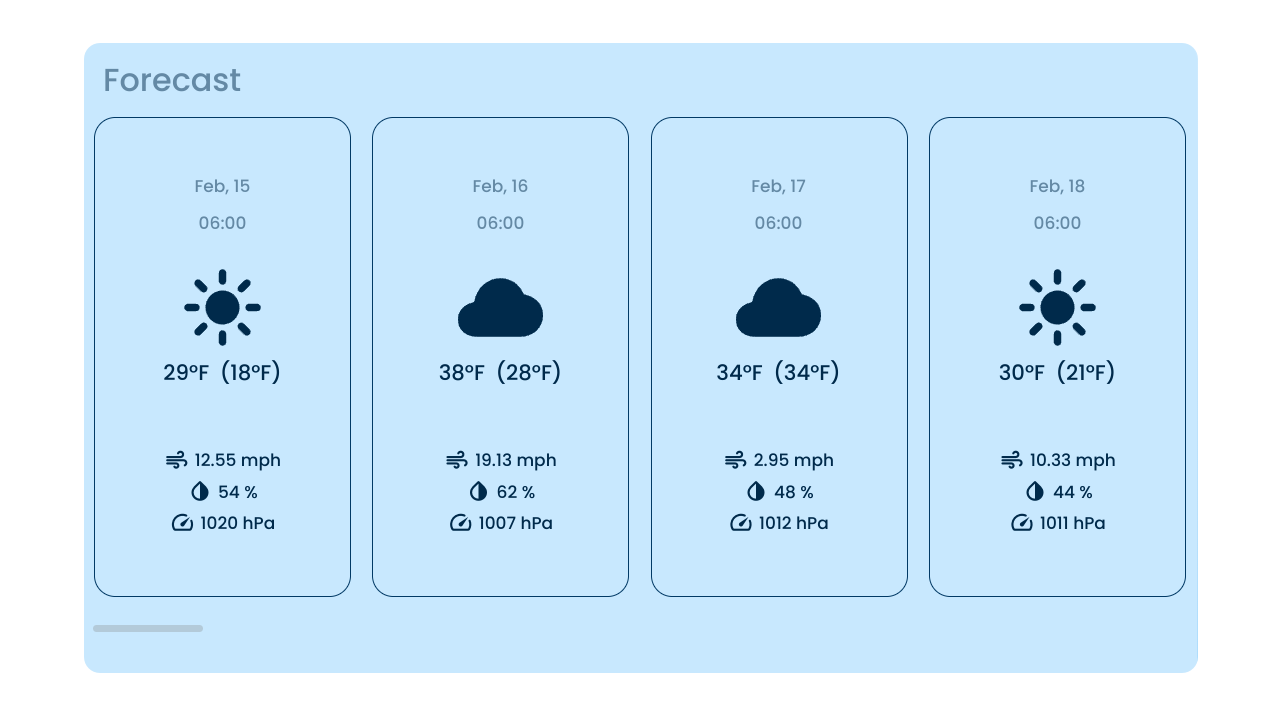
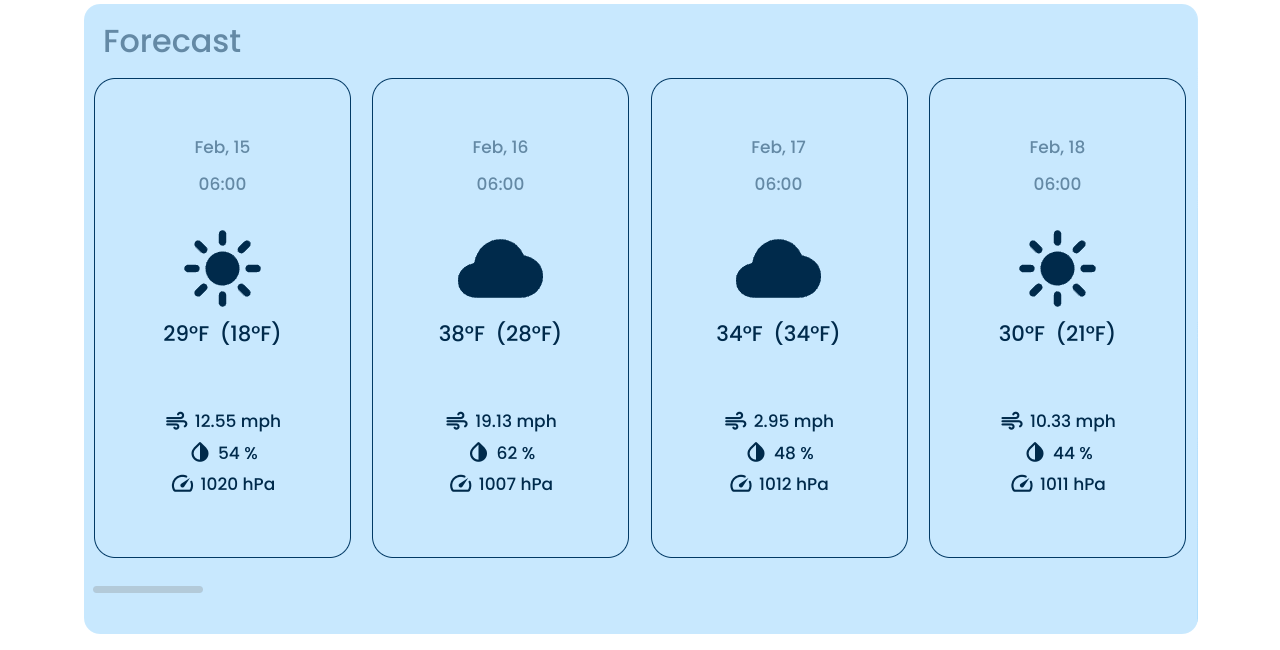
Fixed buttons being highlightable

diff --git a/src/components/function_weather/weather.css b/src/components/function_weather/weather.css
@@ -32,6 +32,14 @@
     }
 
 }
+.location-search-bar {
+    -webkit-touch-callout: none;
+    -webkit-user-select: none;
+    -khtml-user-select: none;
+    -moz-user-select: none;
+    -ms-user-select: none;
+    user-select: none;
+}
 
 .location-current {
     z-index: 2;
@@ -47,6 +55,13 @@
     justify-content: center;
 
     border-radius: var(--border-radius-input);
+
+    -webkit-touch-callout: none;
+    -webkit-user-select: none;
+    -khtml-user-select: none;
+    -moz-user-select: none;
+    -ms-user-select: none;
+    user-select: none;
 }
 @media  screen and (max-width: 865px) {
     .location-current {
@@ -64,6 +79,13 @@
     }
 .location-current-icon {
     width: 25px;
+
+    -webkit-touch-callout: none;
+    -webkit-user-select: none;
+    -khtml-user-select: none;
+    -moz-user-select: none;
+    -ms-user-select: none;
+    user-select: none;
 }
 
 .weather-info {

diff --git a/src/components/function_forecast/forecast.css b/src/components/function_forecast/forecast.css
@@ -103,6 +103,7 @@
     /*column-gap: 10px;*/
     
     overflow-x: scroll;
+    overflow-y: hidden;
 
     background-color: rgba(255, 0, 0, 0);
 

diff --git a/README.md b/README.md
@@ -11,7 +11,7 @@
   * Humidity
   * Pressure
 
-* ### **5 day weather forecast**
+* ### **5 days weather forecast**
 <img src="./readme_resources/forecast.png" width="1280"/>
 
 * ### **Switch between Metric and Imperial unit for readings**
